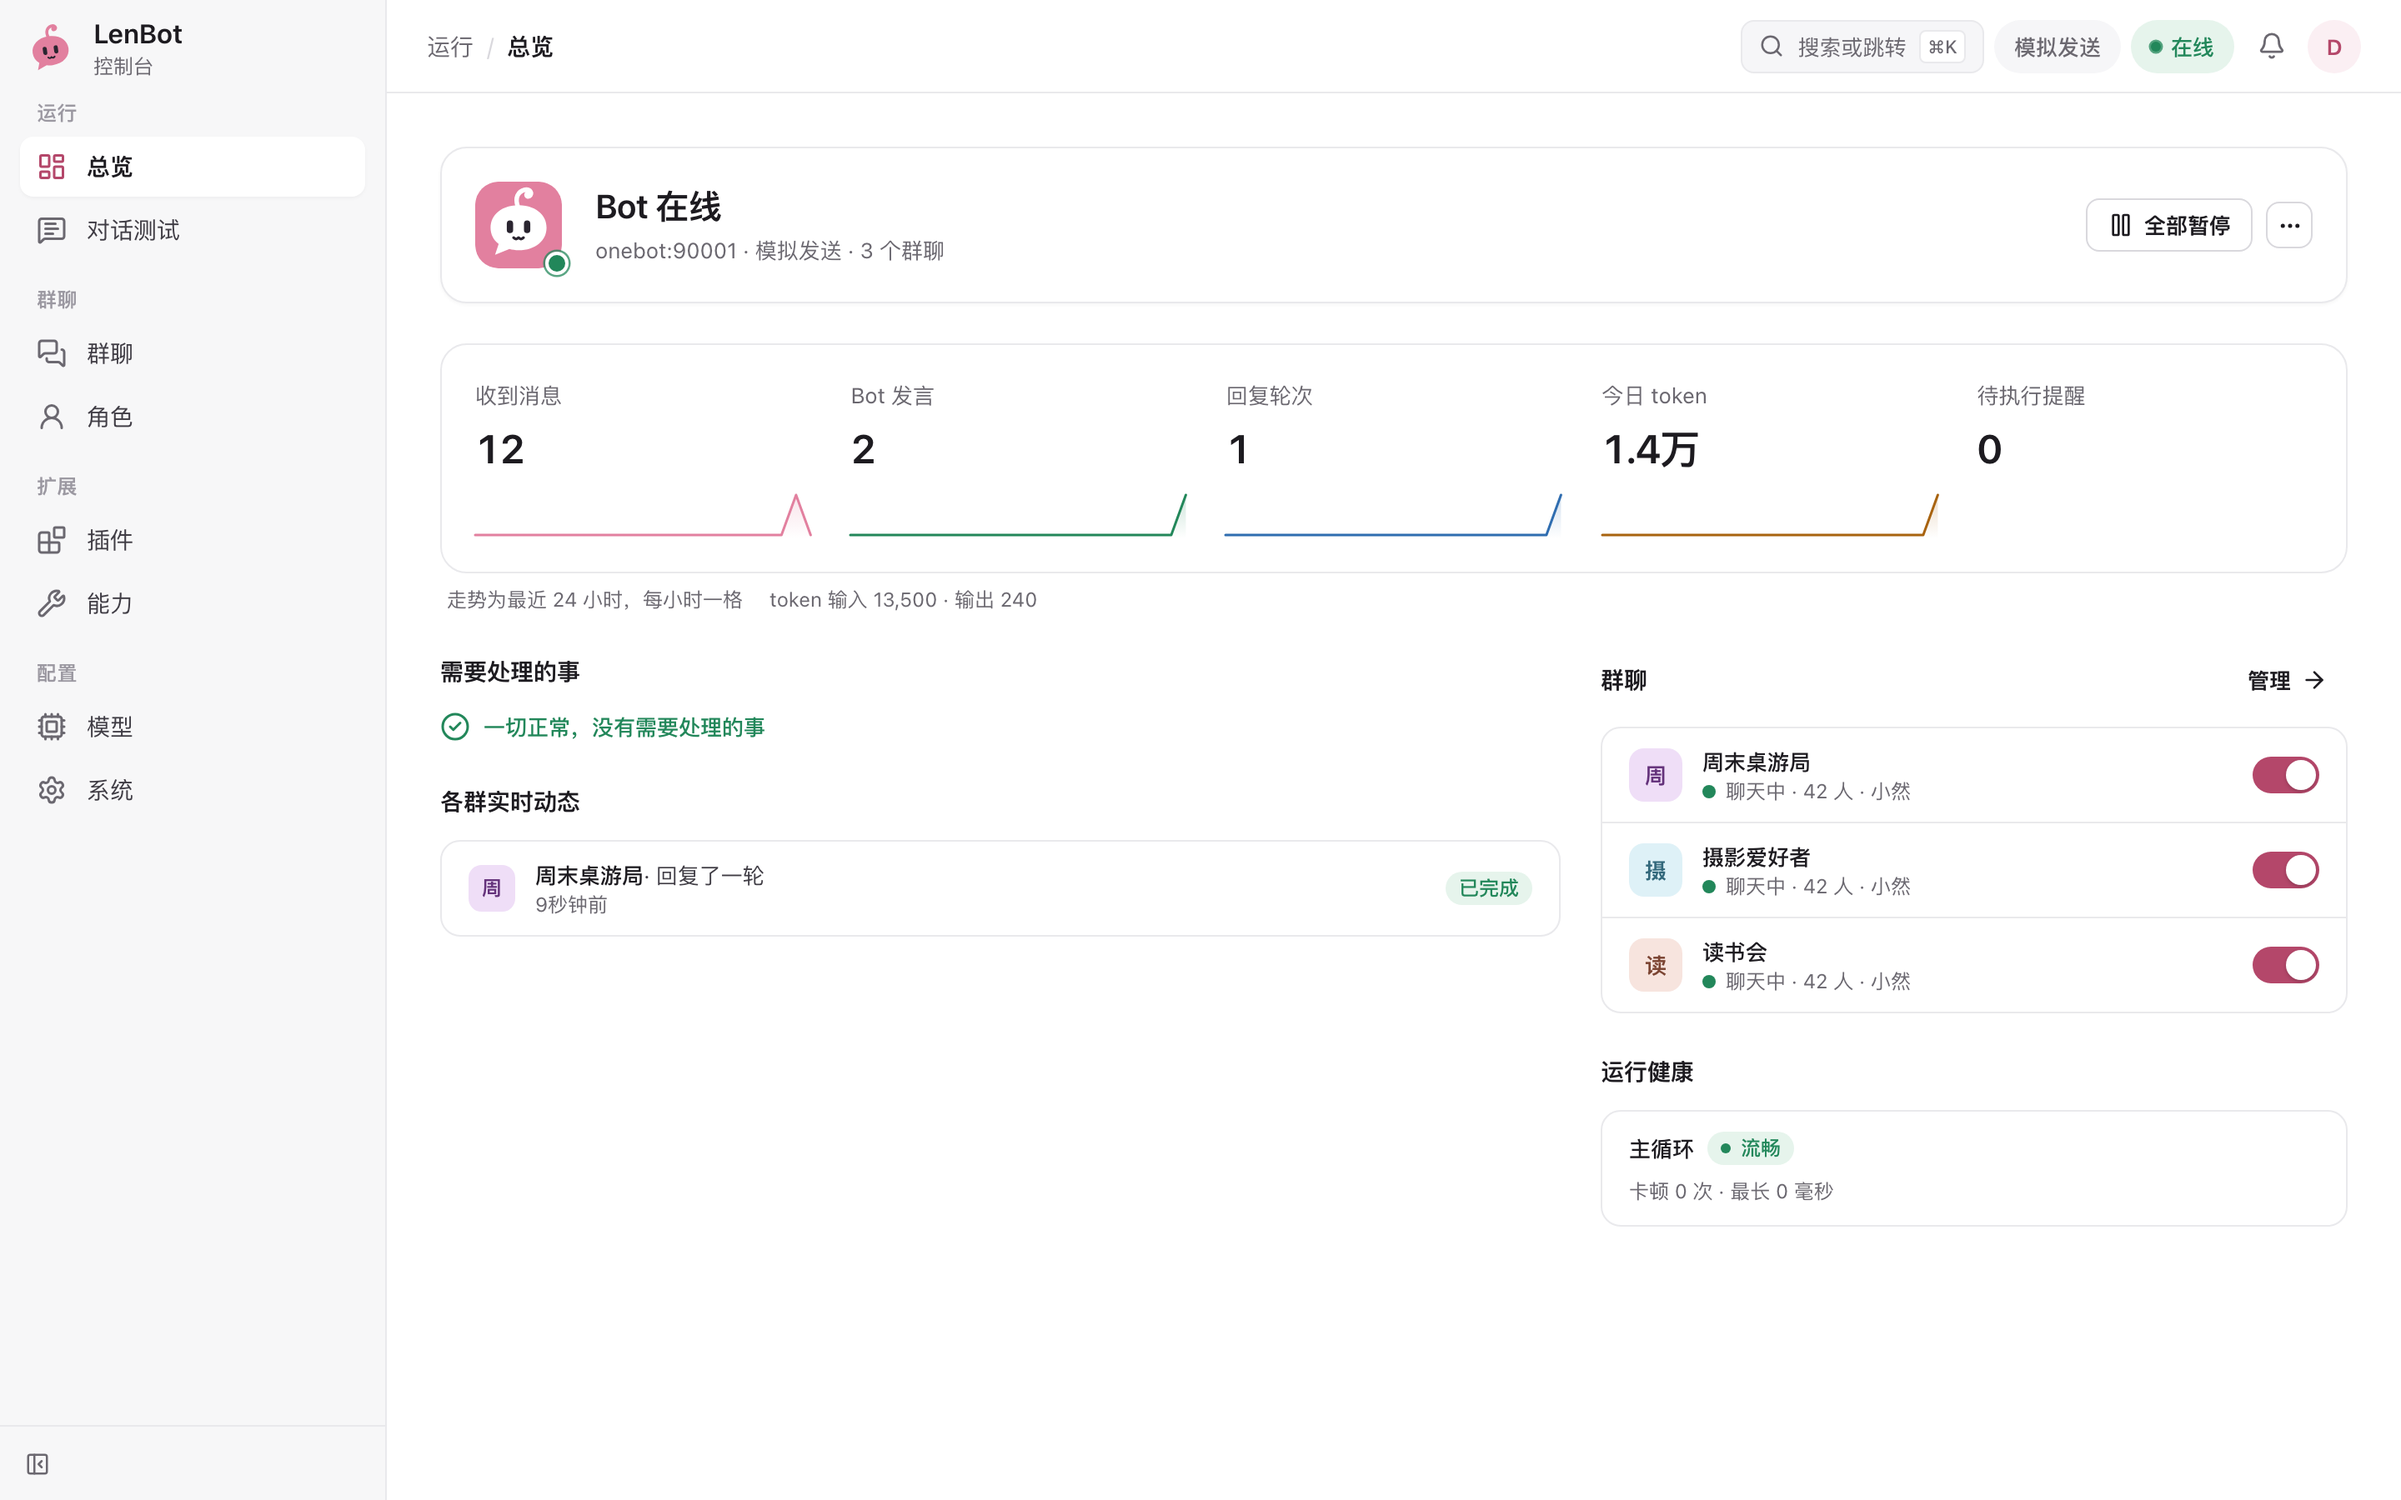
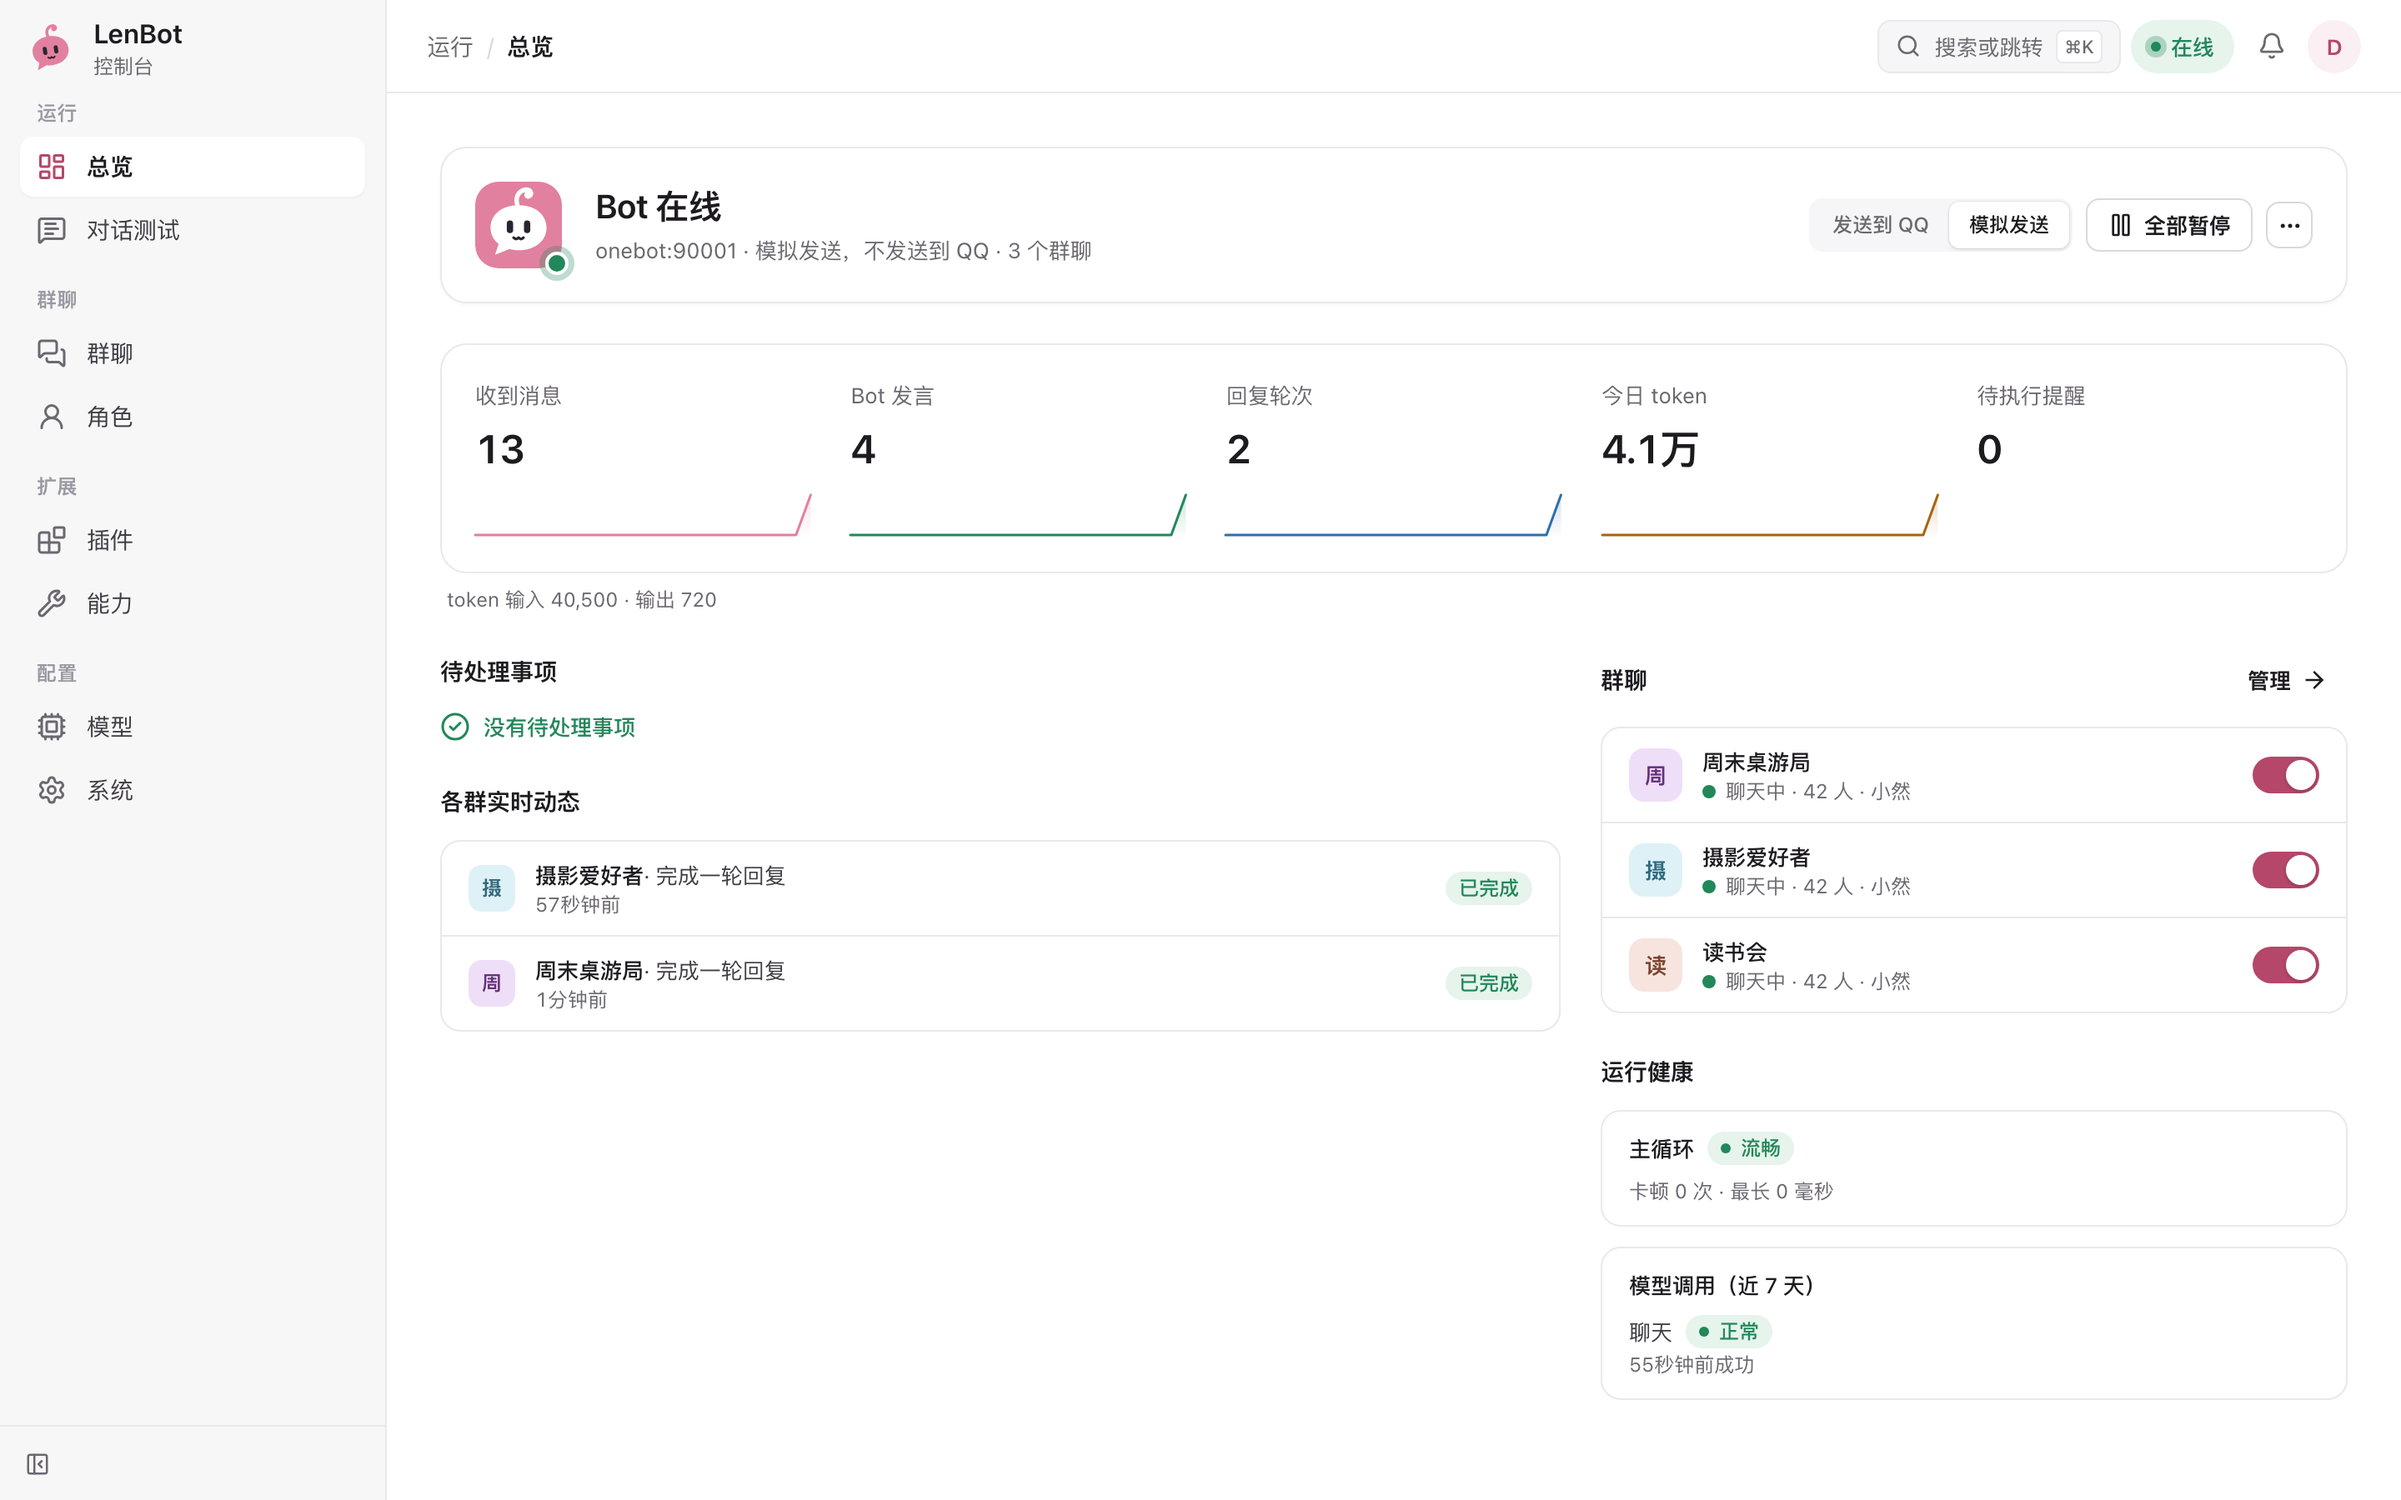
docs: 文档站截图重拍，新增用量、资料和记忆三张截图
- website/scripts/screenshots.py 截图前通过面板接口写入一份记忆、导入三份演示群文件作为资料，在两个群各发一条 @ 消息；角色截图改为效果页签的对话试聊，每次重新开始一次试聊并回到页面顶部。是否已回复改为查时间线接口，页面未加载完时不会重复发消息。
- 重拍总览、角色、插件、群聊现场、连接五张截图，新增 usage.png、reference.png、memory.png，分别放进模型与用量、资料检索、记忆与学习页；角色页也引用 persona.png。
- website/README.md 写明截图脚本写入的演示数据。

核对：演示实例从空目录启动后脚本一次跑完，8 张截图逐张查看；文档站构建和 ruff 通过。

diff --git a/website/scripts/screenshots.py b/website/scripts/screenshots.py
@@ -3,16 +3,84 @@
 import argparse
 import json
 from pathlib import Path
+import time
 import urllib.request
 
 from playwright.sync_api import sync_playwright
 
-PAGES = {'home': '/#/overview', 'persona': '/#/personas?persona=companion&tab=profile',
+PAGES = {'home': '/#/overview', 'persona': '/#/personas?persona=companion&tab=effect',
          'plugins': '/#/plugins?view=discover', 'scenes': '/#/groups/onebot:group:80001/live',
-         'connection': '/#/system?tab=connection'}
-# Sent before the group page is taken, so it shows a finished turn; its last line ends the turn.
-MESSAGE = {'group': 80001, 'user': 70002, 'text': '周六带什么零食好', 'at': True}
-LAST_LINE = '抹茶饼干我也带一盒'
+         'connection': '/#/system?tab=connection', 'usage': '/#/models?tab=usage',
+         'reference': '/#/groups/onebot:group:80001/reference', 'memory': '/#/groups/onebot:group:80001/memory'}
+SCENE = 'onebot:group:80001'
+# Sent before the pages are taken, so the groups show finished turns; each last line ends its turn.
+MESSAGES = [({'group': 80001, 'user': 70002, 'text': '周六带什么零食好', 'at': True}, '抹茶饼干我也带一盒'),
+            ({'group': 80002, 'user': 70003, 'text': '三脚架买哪种好', 'at': True}, '手就不会抖啦')]
+TRIAL = '周六带什么零食好'
+MEMORY = ('events/周六桌游.md', '# 周六桌游\n\n## 时间地点\n\n每周六 18:00 在东门桌游吧 3 号包间开局，晚到的人负责点外卖。\n\n'
+          '## 口味\n\n- 老周一点辣都不吃\n- 橘子点名要抹茶饼干\n\n## 器材\n\n- 老周带卡坦岛和航海家扩展\n')
+# Group files of the demo instance imported into the reference tab.
+GROUP_FILES = [('/f-rules', '桌游规则速查.md'), ('/f-venue', '场地预约.txt'), ('/f-expansion', '卡坦岛航海家扩展.md')]
+
+
+def inject(control: str, message: dict) -> None:
+    request = urllib.request.Request(control + '/inject', data=json.dumps(message).encode(),
+                                     headers={'Content-Type': 'application/json'}, method='POST')
+    urllib.request.urlopen(request, timeout=10).close()
+
+
+def said(page, panel: str, group: int, text: str) -> bool:
+    timeline = page.request.get(f'{panel}/api/host/scenes/onebot:group:{group}/timeline?limit=50').json()
+    return text in json.dumps(timeline, ensure_ascii=False)
+
+
+def answer(page, panel: str, control: str, message: dict, last: str) -> None:
+    """Send the message unless the bot already answered it, and wait for the answer's last line."""
+    if said(page, panel, message['group'], last):
+        return
+    inject(control, message)
+    deadline = time.monotonic() + 60
+    while not said(page, panel, message['group'], last):
+        if time.monotonic() > deadline:
+            raise TimeoutError(f"no reply in {message['group']}")
+        page.wait_for_timeout(500)
+
+
+def seed(page, panel: str) -> None:
+    """A memory file and three reference files, written the way the panel writes them."""
+    headers = {'Origin': panel}
+    path, content = MEMORY
+    page.request.put(panel + '/api/host/memory/file', headers=headers, fail_on_status_code=True, data={
+        'scene': SCENE, 'path': path, 'scope': 'scene', 'content': content, 'reason': '群友约定的固定安排'})
+    for file_id, name in GROUP_FILES:
+        page.request.post(f'{panel}/api/host/scenes/{SCENE}/reference/group-files', headers=headers,
+                          fail_on_status_code=True, data={'file_id': file_id, 'busid': 102, 'name': name})
+
+
+def prepare(page, name: str) -> None:
+    """Bring each page to the state its screenshot shows."""
+    if name == 'persona':
+        # A new trial each time, so the chat shows one question and its answer.
+        start, stop = page.get_by_role('button', name='开始试聊'), page.get_by_role('button', name='结束试聊')
+        start.or_(stop).wait_for()
+        if stop.is_visible():
+            stop.click()
+            page.get_by_role('alertdialog').get_by_role('button', name='结束试聊').click()
+        start.click()
+        page.get_by_role('button', name='@ 群友').click()
+        page.get_by_role('menuitem', name='小然').click()
+        page.locator('textarea').first.fill(TRIAL)
+        page.keyboard.press('Enter')
+        page.get_by_text(MESSAGES[0][1]).wait_for(timeout=60000)
+        # Sending focuses the input and scrolls it into view; the shot starts at the persona header.
+        page.locator('textarea').first.blur()
+        page.evaluate('() => document.querySelectorAll("*").forEach(element => { element.scrollTop = 0 })')
+    if name == 'reference':
+        page.get_by_text('已索引').first.wait_for(timeout=30000)
+    if name == 'memory':
+        page.get_by_text('events', exact=True).click()
+        page.get_by_text(Path(MEMORY[0]).name, exact=True).click()
+        page.get_by_text('晚到的人负责点外卖').wait_for(timeout=10000)
 
 
 def main() -> None:
@@ -30,14 +98,13 @@ def main() -> None:
         page.get_by_label('密码').fill('demo-password')
         page.get_by_role('button', name='登录').click()
         page.wait_for_url('**/#/overview')
+        seed(page, args.panel)
+        for message, last in MESSAGES:
+            answer(page, args.panel, args.control, message, last)
         for name, path in PAGES.items():
             page.goto(args.panel + path)
             page.wait_for_load_state('networkidle')
-            if name == 'scenes' and page.get_by_text(LAST_LINE).count() == 0:
-                request = urllib.request.Request(args.control + '/inject', data=json.dumps(MESSAGE).encode(),
-                                                 headers={'Content-Type': 'application/json'}, method='POST')
-                urllib.request.urlopen(request, timeout=10).close()
-                page.get_by_text(LAST_LINE).wait_for(timeout=60000)
+            prepare(page, name)
             page.mouse.move(0, 0)
             # Entrance animations and the live-status dot settle within a second.
             page.wait_for_timeout(1500)

diff --git a/website/guide/models.md b/website/guide/models.md
@@ -88,6 +88,8 @@ docker exec lenbot-embeddings ollama pull bge-m3:567m
 
 **模型 → 用量与上限**显示今天和本月的 token 用量，按模型（本月再按日期）和按群与用途分别列出，也可以设置每天的 token 上限。总览显示的是同一组数字。
 
+![模型 → 用量与上限：今天的 token 合计，按模型、按群和用途的调用次数与 token，以及各群的唤醒与发言](/screenshots/usage.png)
+
 同一页的**唤醒与发言**按群、日期和唤醒方式列出唤醒次数、发言次数、发言率、主脑输入 token 和缓存命中 token。一个回合计一次唤醒；回合中发言、单独发送表情或给消息贴表情都计一次发言。
 
 每次模型调用结束时，LenBot 把时间、群、用途、模型连接、模型名和服务商报告的输入、输出、缓存命中 token 记一行。统计和每日上限都按这些记录计算，清理旧的请求正文不影响它们。语音转写和向量调用单独列出，不计入每日上限。

diff --git a/website/index.md b/website/index.md
@@ -66,7 +66,7 @@ features:
 <div class="shots">
   <figure class="wide"><img src="/screenshots/live.gif" alt="群聊现场：群友 @ Bot 后，回合卡片逐步展开，先查询聊天记录，再分两条回复"><figcaption>群聊现场。Bot 被 @ 后先查询聊天记录，再分两条回复，每一步实时显示。</figcaption></figure>
   <figure><img src="/screenshots/home.png" alt="面板总览，显示 QQ 连接状态、今天的消息量和群列表"><figcaption>总览：连接状态、当日统计、待处理事项和各群动态。</figcaption></figure>
-  <figure><img src="/screenshots/persona.png" alt="角色编辑页"><figcaption>角色编辑：修改设定后可以先试聊，确认后再保存。</figcaption></figure>
+  <figure><img src="/screenshots/persona.png" alt="角色效果页签的对话试聊：群友 @ 角色后收到两条回复"><figcaption>角色编辑：修改设定后可以先试聊，确认后再保存。</figcaption></figure>
 </div>
 
 <div class="home-section">

diff --git a/website/guide/memory.md b/website/guide/memory.md
@@ -20,6 +20,8 @@ LenBot 的记忆是保存在本地的 Markdown 文件，按群分开存放。学
 
 在**群聊 → 记忆**中可以浏览、搜索、新建、修改和删除记忆。
 
+![群聊 → 记忆 → 浏览：左侧是本群记忆的目录，右侧是打开的记忆文件和编辑、修改历史、删除按钮](/screenshots/memory.png)
+
 - **删除**：保留修改历史。
 - **遗忘**：清除这份记忆的正文、索引、旧版本和摘要。遗忘时还可以选择部分原话，之后不再从中学习。
 
